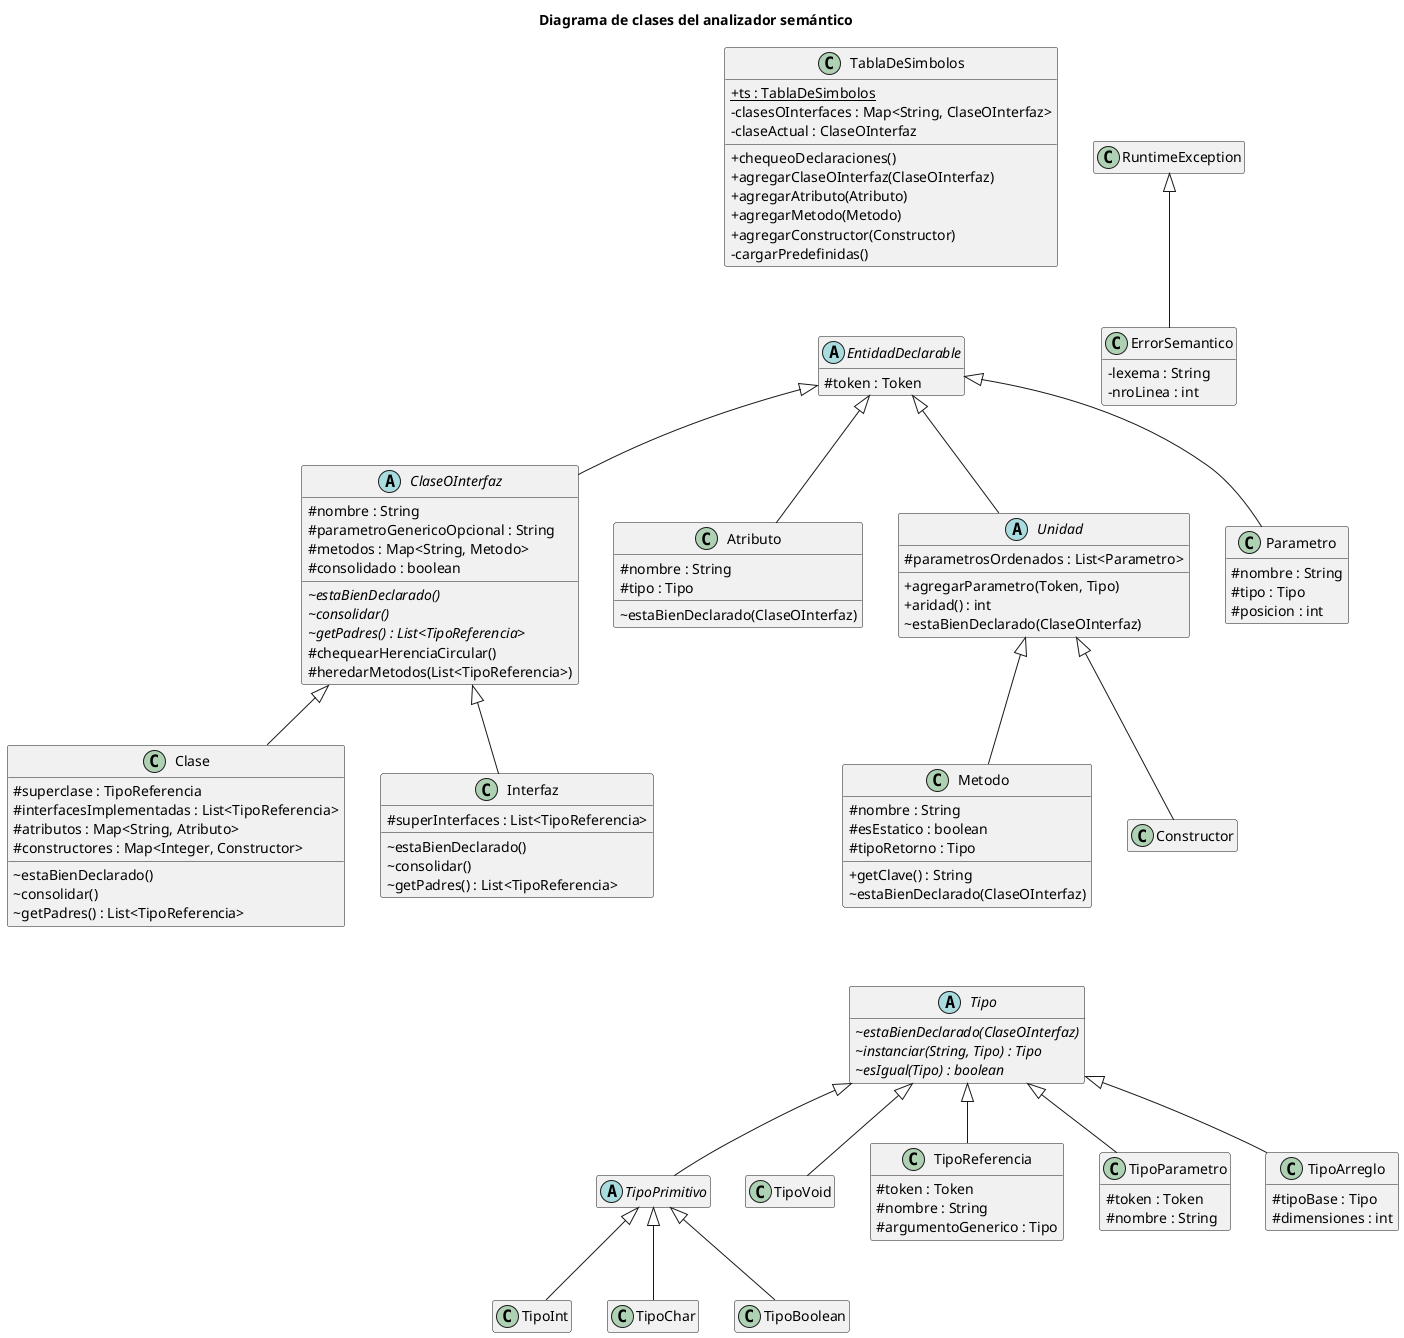
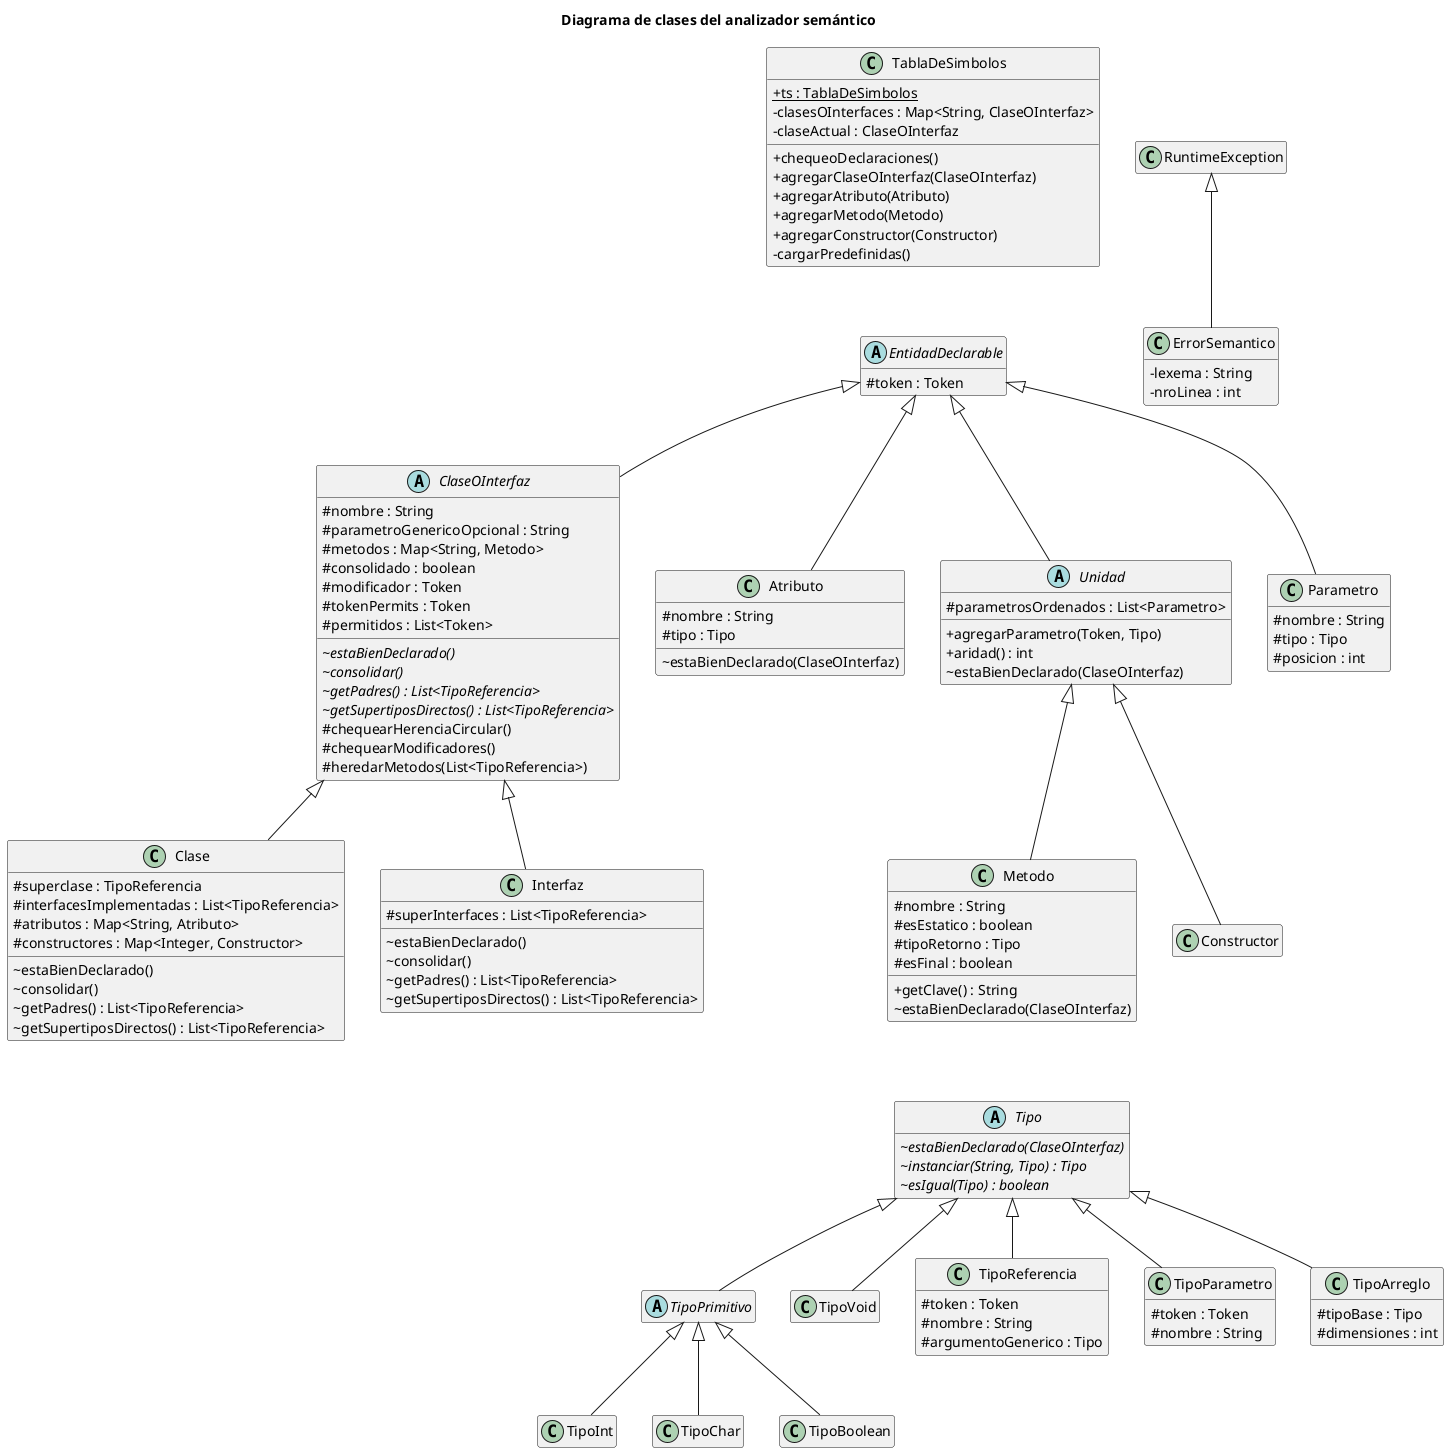
Actualizar logros, informe y diagrama de clases con el logro Sobrecarga E3

diff --git a/LOGROS.md b/LOGROS.md
@@ -4,21 +4,13 @@ De más fácil a más difícil, según el estado actual del proyecto.
 
 No se implementan: Entrega Anticipada, Imbatibilidad y Kudos. Dependen de cuándo se entrega y de cómo corrige la cátedra.
 
-## 1. Sobrecarga!: `sealed` y `final`
+## 1. Multi-Detección de Errores
 
-- **Léxico y parser:** palabras reservadas nuevas, modificadores en clases, interfaces y métodos, y dos flags en las entidades.
-- **Chequeos:** entran fácil en lo que ya existe:
-  - extender o implementar algo `final`: en `estaBienDeclarado`
-  - redefinir un método `final`: en `chequearRedefinicion`
-- **Riesgo:** `sealed` "como en Java" implica `permits` y que cada subclase sea `final`, `sealed` o `non-sealed`. Además, `non-sealed` lleva un guion, lo que complica el léxico. Si la cátedra pide todo eso, el logro crece. Hay que confirmar el alcance antes de empezar.
-
-## 2. Multi-Detección de Errores
-
-- **Es un cambio transversal.** Todo el diseño asume que el análisis corta en el primer error (18 `throw new ErrorSemantico`). Habría que juntar los errores en una lista, recuperarse en cada declaración y, cuando hay nombres repetidos, descartar las dos entidades.
+- **Es un cambio transversal.** Todo el diseño asume que el análisis corta en el primer error (30 `throw new ErrorSemantico`). Habría que juntar los errores en una lista, recuperarse en cada declaración y, cuando hay nombres repetidos, descartar las dos entidades.
 - **La consolidación se vuelve frágil.** `consolidar()` hace casts del tipo `(Clase) superclase.getReferenciada()` que asumen que la segunda pasada no encontró errores. Con recuperación, las entidades inválidas se tienen que saltear para no provocar errores en cascada o excepciones.
 - **Interacción con el orden:** si se hace después de los demás logros, también hay que adaptar su código. Si se hace antes, todo logro nuevo tiene que escribirse pensando en la recuperación.
 
-## 3. Métodos Genéricos: el más difícil
+## 2. Métodos Genéricos: el más difícil
 
 - **Sintaxis:** `<T> T m(T x)` hace que un miembro pueda empezar con `<`. Eso cambia los conjuntos de primeros de la gramática LL(1).
 - **Alcance de los parámetros de tipo:** hoy el contexto de validación es solo la clase (`estaBienDeclarado(ClaseOInterfaz contexto)`), y pasaría a ser la clase más el método.

diff --git a/docs/informe-etapa3.md b/docs/informe-etapa3.md
@@ -86,3 +86,5 @@ descriptivos, en caso de que sea necesario recrear su ejecución (e.g.: MainEtap
 * Entrega Anticipada E3
 * Genericidad Avanzada E3
 * Herencia Multiple E3
+* Sobrecarga! E3
+
